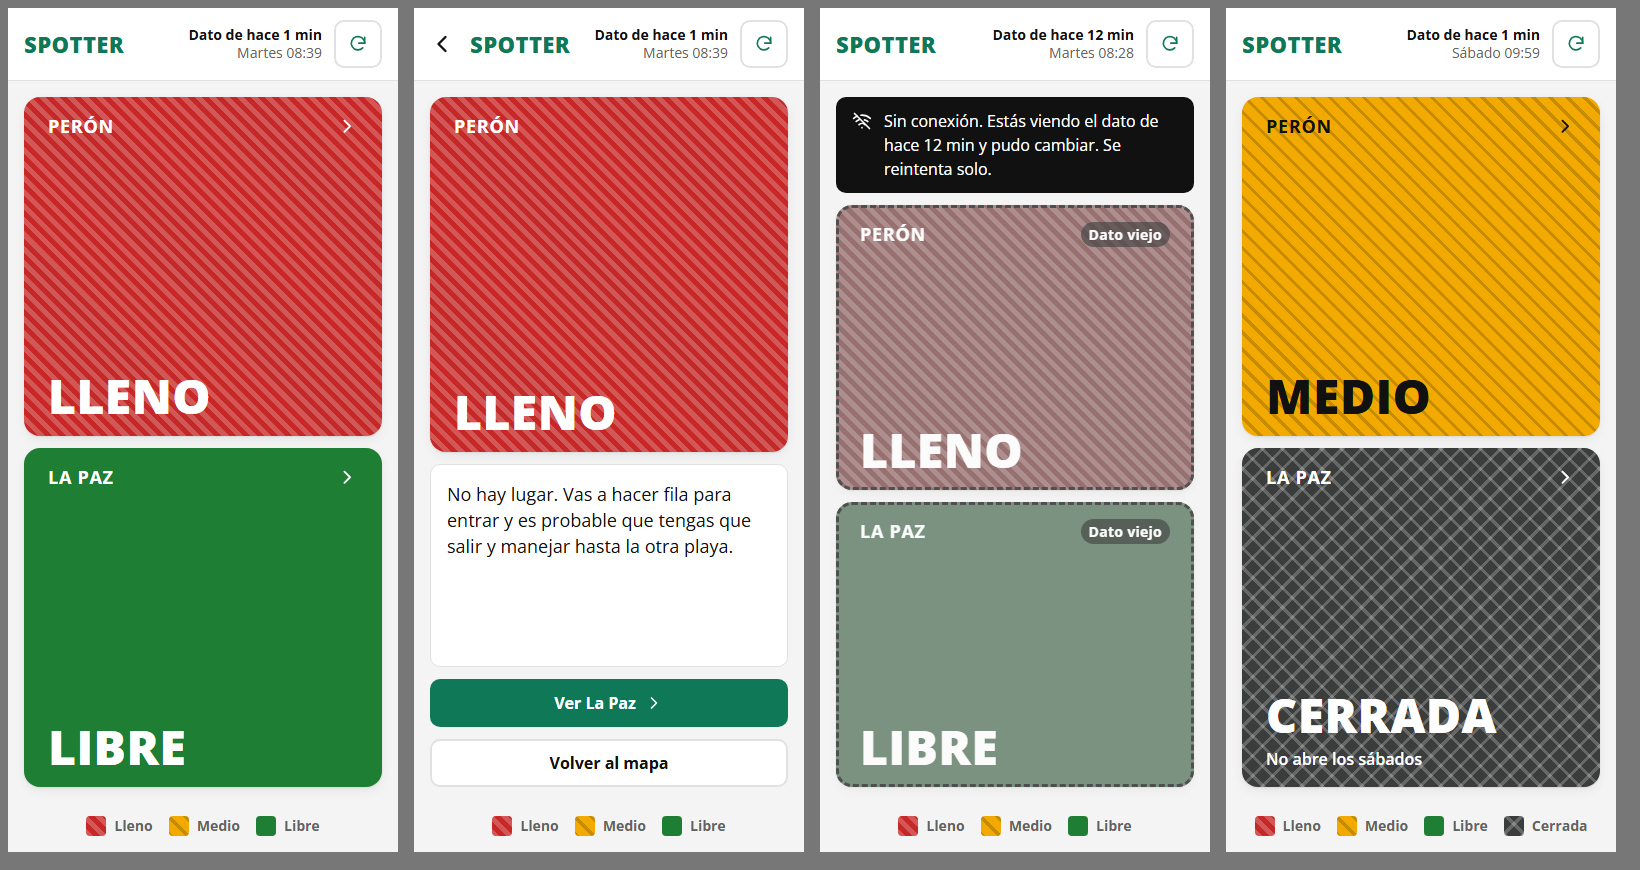
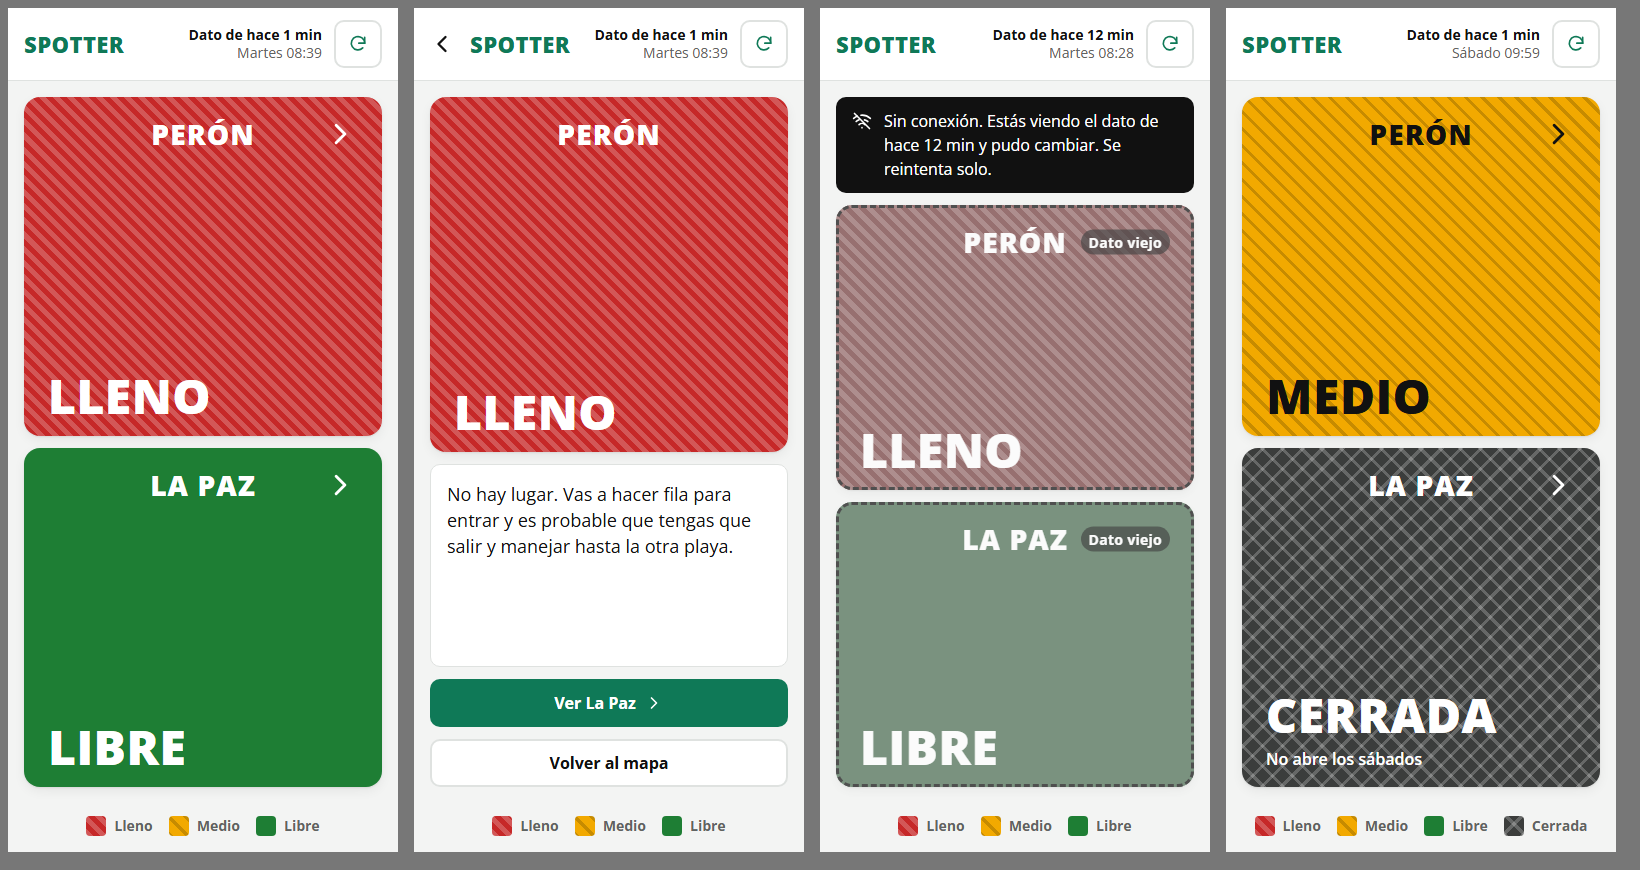
fix(mvp): nombre de la playa centrado y más grande (feedback del equipo)

diff --git a/src/styles.css b/src/styles.css
@@ -310,14 +310,24 @@ body {
 .lot[data-state="closed"] { --lot-bg: var(--closed); --lot-ink: var(--closed-ink); --lot-pattern: var(--pattern-closed); }
 
 .lot__head {
+  position: relative;
   display: flex;
   align-items: center;
-  justify-content: space-between;
-  gap: var(--s-2);
-  font-size: var(--text-lg);
-  font-weight: 700;
+  justify-content: center;
+  min-height: 2.25rem;
+  font-size: var(--text-2xl);
+  font-weight: 800;
   letter-spacing: 0.04em;
   text-transform: uppercase;
+}
+
+/* Flecha y etiqueta a la derecha sin descentrar el nombre. */
+.lot__head > .icon,
+.lot__head > .tag {
+  position: absolute;
+  right: 0;
+  top: 50%;
+  transform: translateY(-50%);
 }
 
 .lot__state {

diff --git a/DESIGN.md b/DESIGN.md
@@ -35,8 +35,8 @@ typography:
     letterSpacing: "0.02em"
   title:
     fontFamily: "Open Sans, system-ui, sans-serif"
-    fontSize: "1.125rem"
-    fontWeight: 700
+    fontSize: "1.75rem"
+    fontWeight: 800
     letterSpacing: "0.04em"
   body:
     fontFamily: "Open Sans, system-ui, sans-serif"
@@ -144,7 +144,7 @@ neutros. El verde de marca es azulado y no se usa como fondo grande.
 
 - **Estado** (800, clamp 2–3rem según el ancho del bloque, mayúsculas): la palabra LLENO / MEDIO / LIBRE / CERRADA.
 - **Marca** (800, 1.375rem): "SPOTTER" en el header.
-- **Título de playa** (700, 1.125rem, mayúsculas, tracking 0.04em).
+- **Nombre de playa** (800, 1.75rem, mayúsculas, tracking 0.04em, centrado en el bloque).
 - **Texto** (400, 1rem–1.125rem, interlineado 1.5): consecuencias y avisos.
 - **Meta / leyenda** (0.875rem): antigüedad del dato, cifras tabulares.
 
@@ -168,7 +168,7 @@ Radio de 16px en bloques de playa, 10px en botones, avisos y paneles, 4px en las
 
 ## Components
 
-- **Bloque de playa** (`.lot[data-state]`): nombre arriba, estado enorme abajo, flecha si lleva al detalle. Trama a 45°: densa (LLENO), media (MEDIO), cruzada (CERRADA); LIBRE va lisa (decisión del equipo). Al tocar, escala a 0.985.
+- **Bloque de playa** (`.lot[data-state]`): nombre arriba y centrado, estado enorme abajo, flecha si lleva al detalle. Trama a 45°: densa (LLENO), media (MEDIO), cruzada (CERRADA); LIBRE va lisa (decisión del equipo). Al tocar, escala a 0.985.
 - **Dato viejo** (`.lot.is-stale`): desaturado, opacidad 0.72, borde punteado y etiqueta "Dato viejo". Nunca se oculta ni se bloquea.
 - **Header** (`.app-header`): SPOTTER a la izquierda; antigüedad del dato (negrita) y día/hora a la derecha; botón Actualizar de solo ícono. Mientras actualiza, el ícono gira y el dato anterior sigue a la vista.
 - **Botones** (`.btn--primary`, `.btn--secondary`): 48px de alto, peso 700; deshabilitado al 45% de opacidad. En el detalle solo existe el botón hacia la otra playa.
